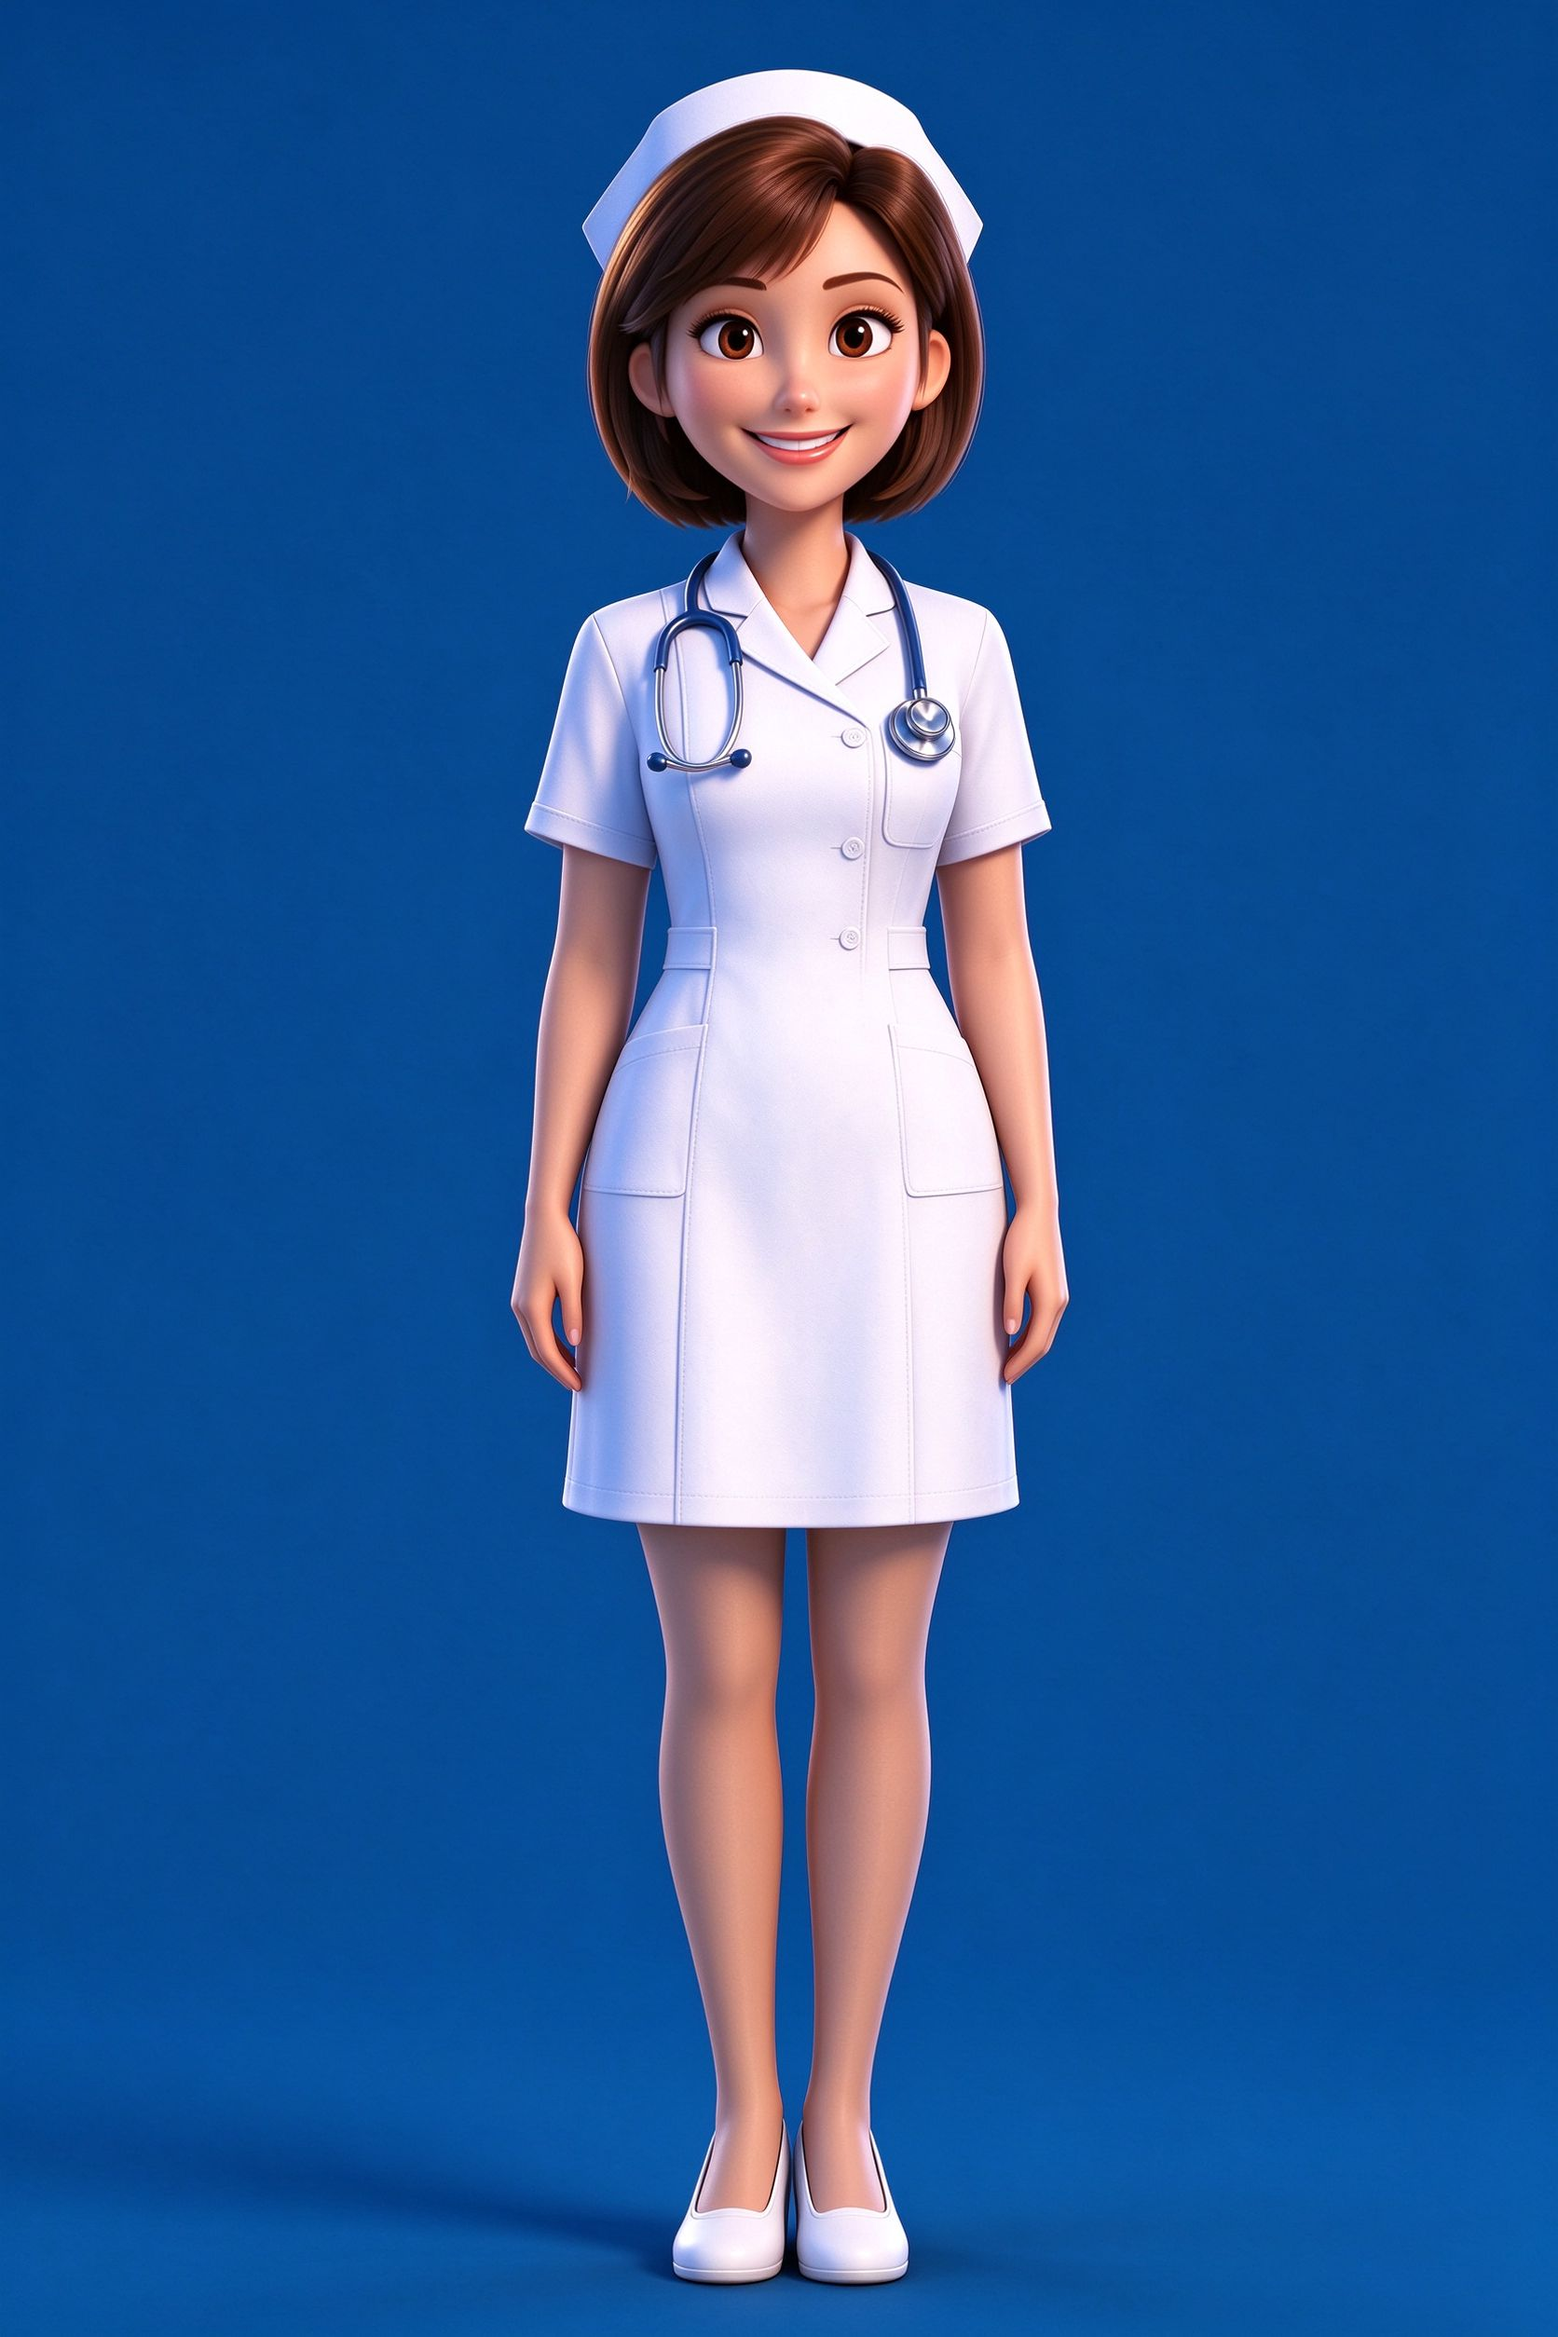
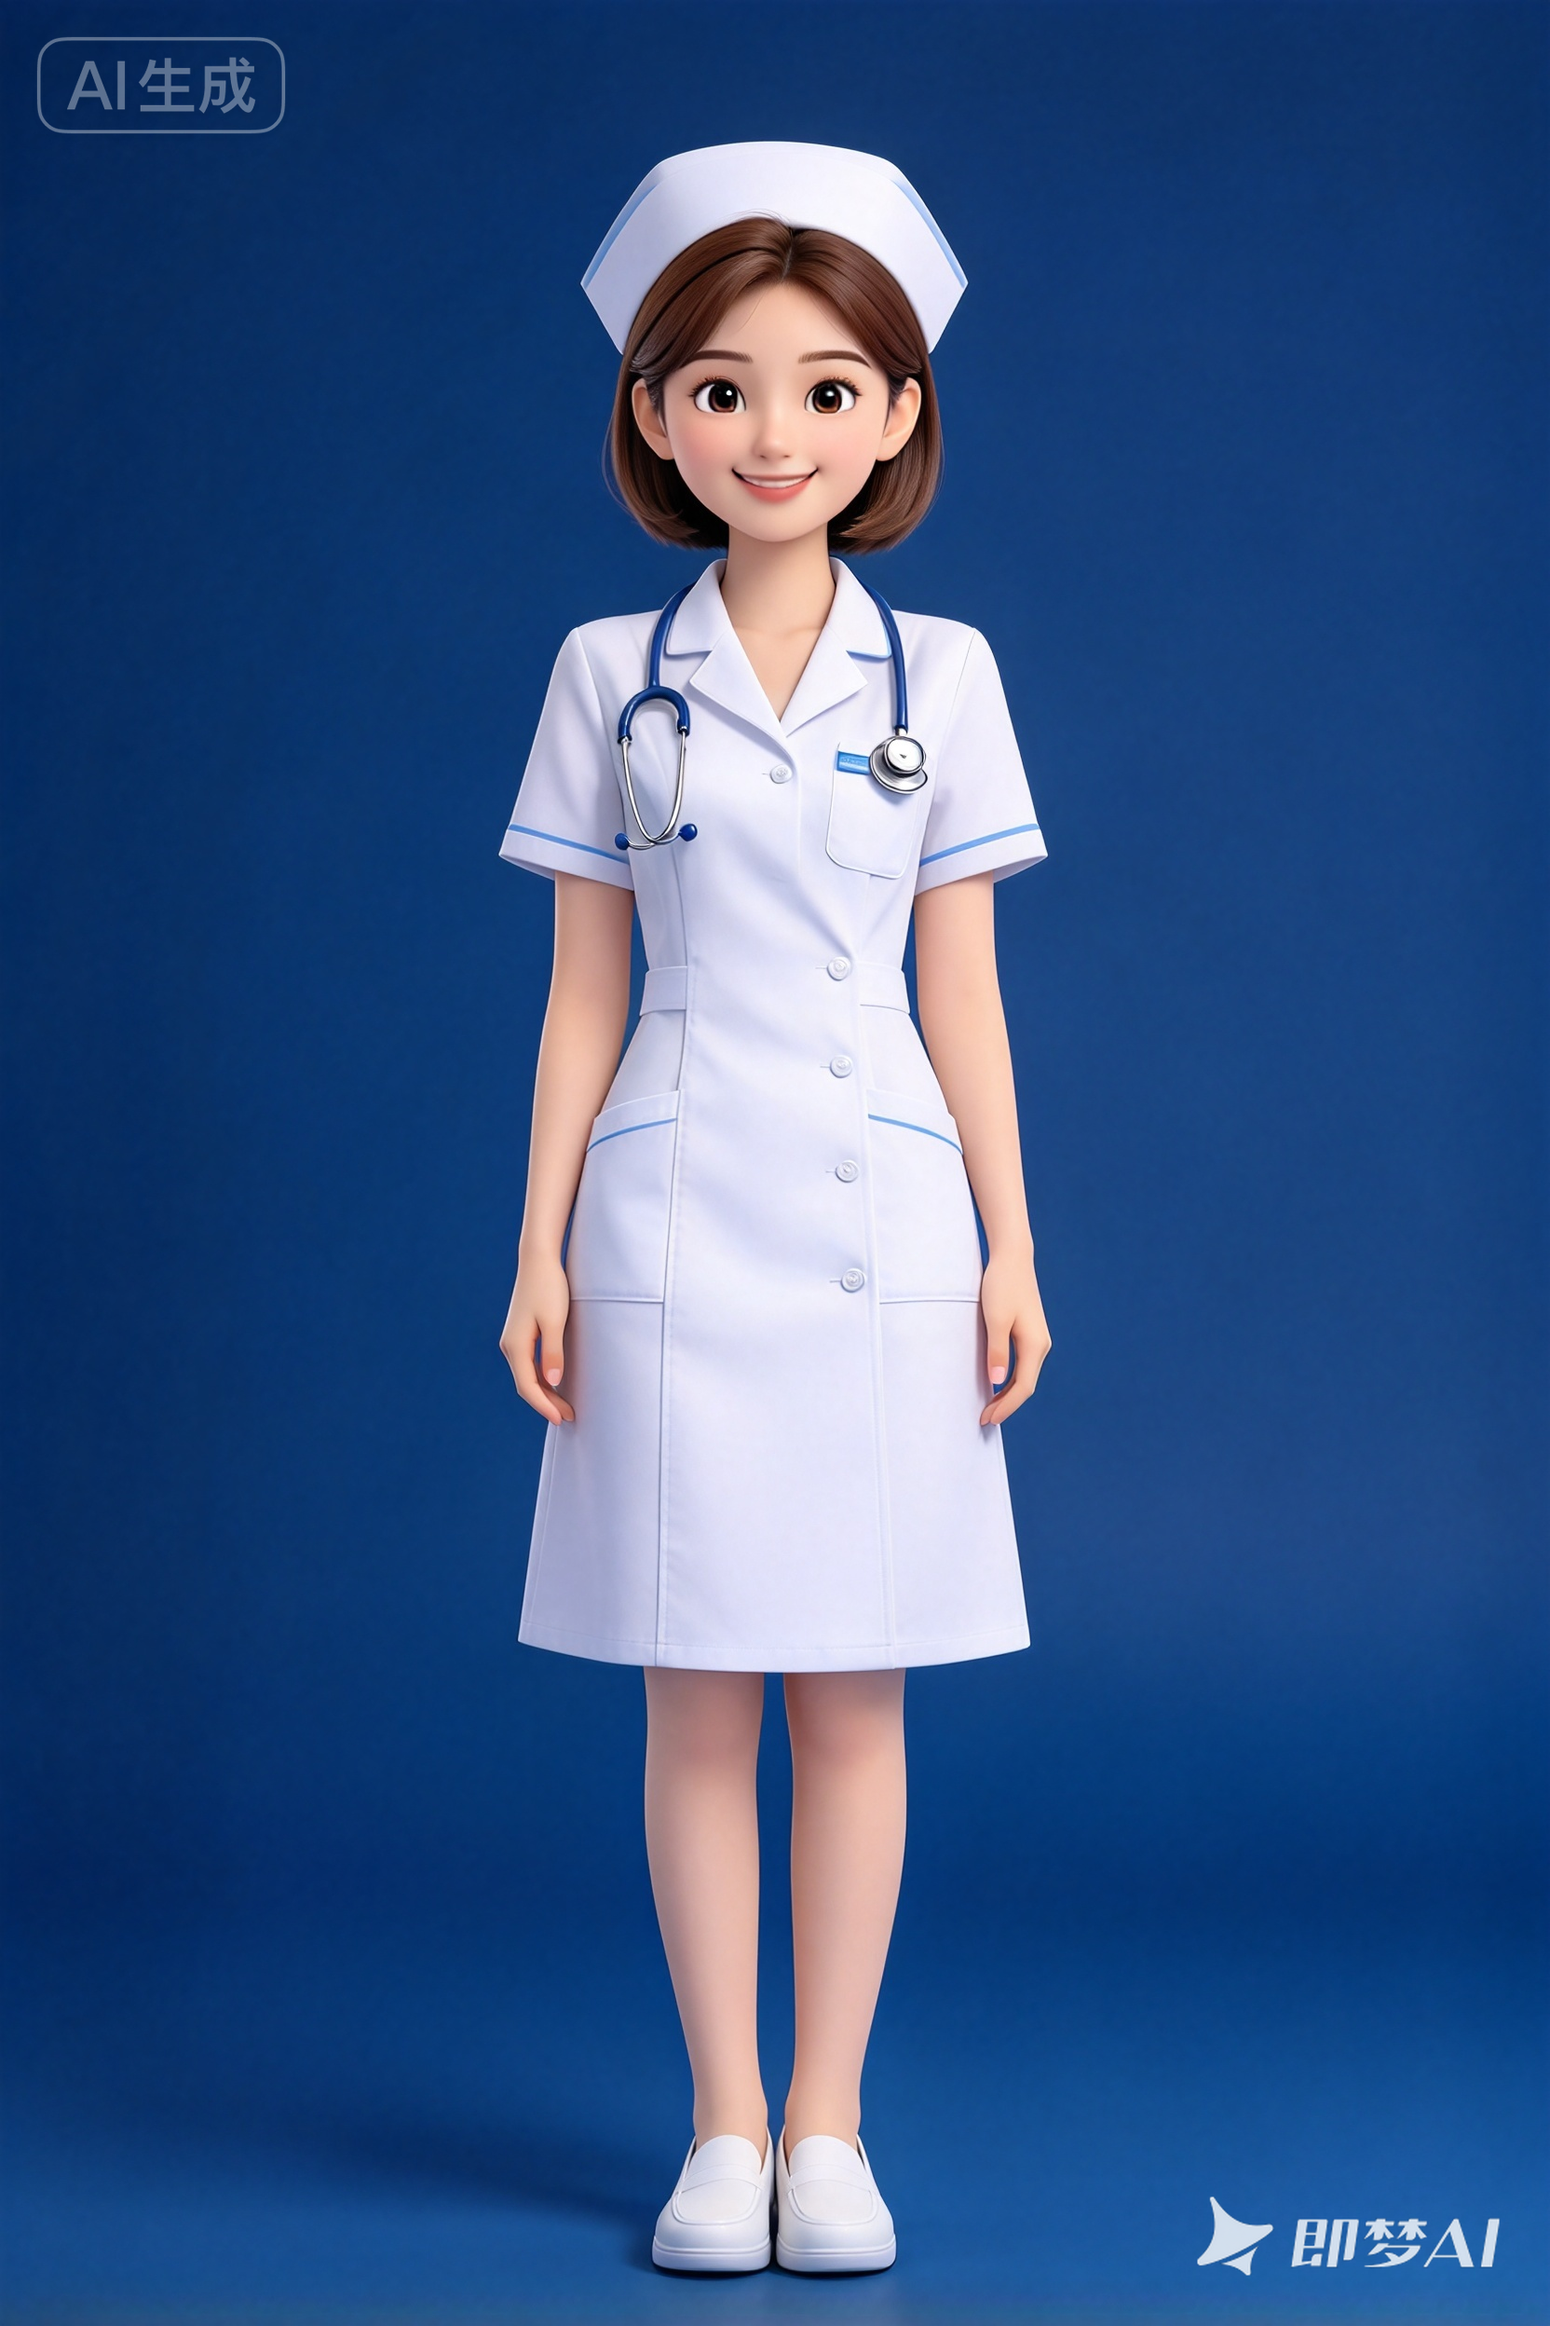
feat: 即梦4.7生成高清护士全身像（更逼真，深蓝背景自然融合）

diff --git a/index.html b/index.html
@@ -3,7 +3,7 @@
 <head>
 <meta charset="UTF-8">
 <title>医学生处方推演训练平台 · MVP</title>
-<link rel="stylesheet" href="css/rx.css?v=20261104j">
+<link rel="stylesheet" href="css/rx.css?v=20261104k">
 </head>
 <body>
 
